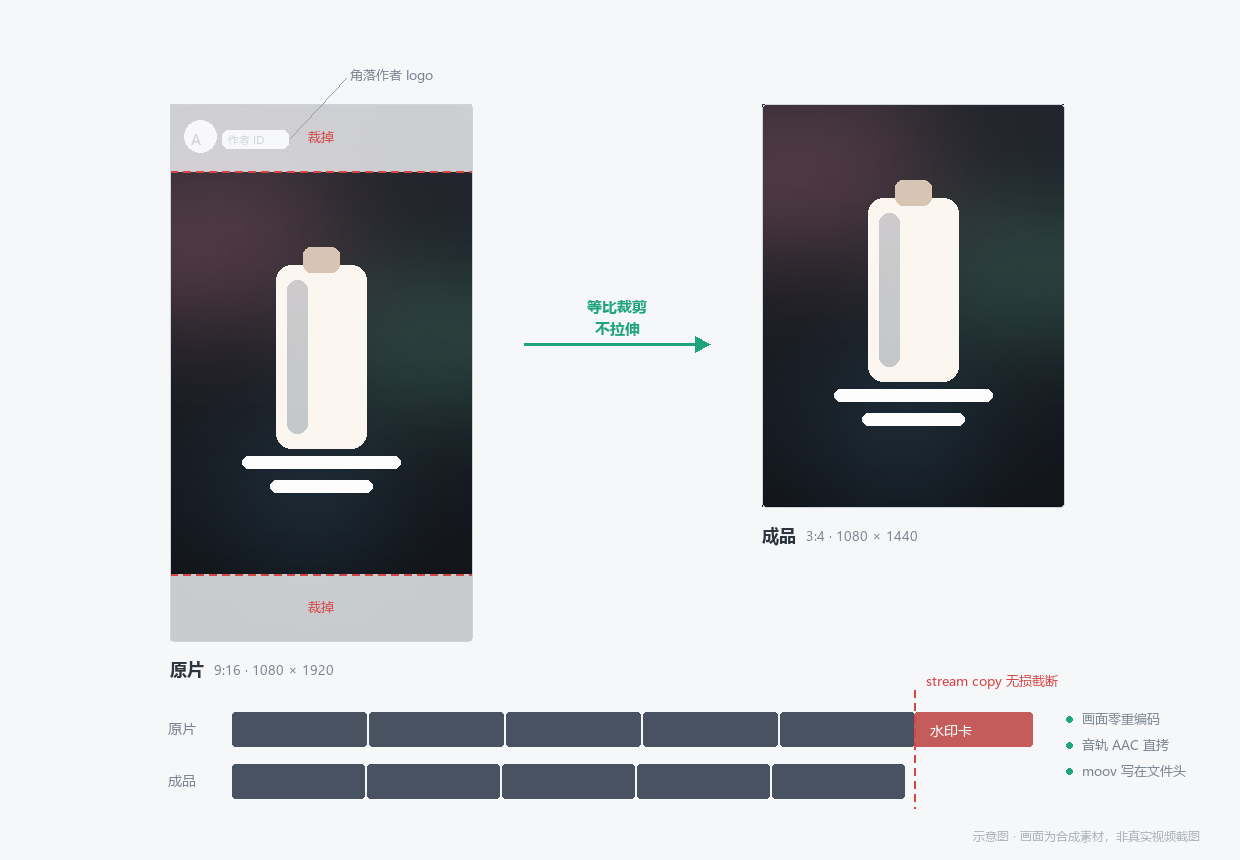
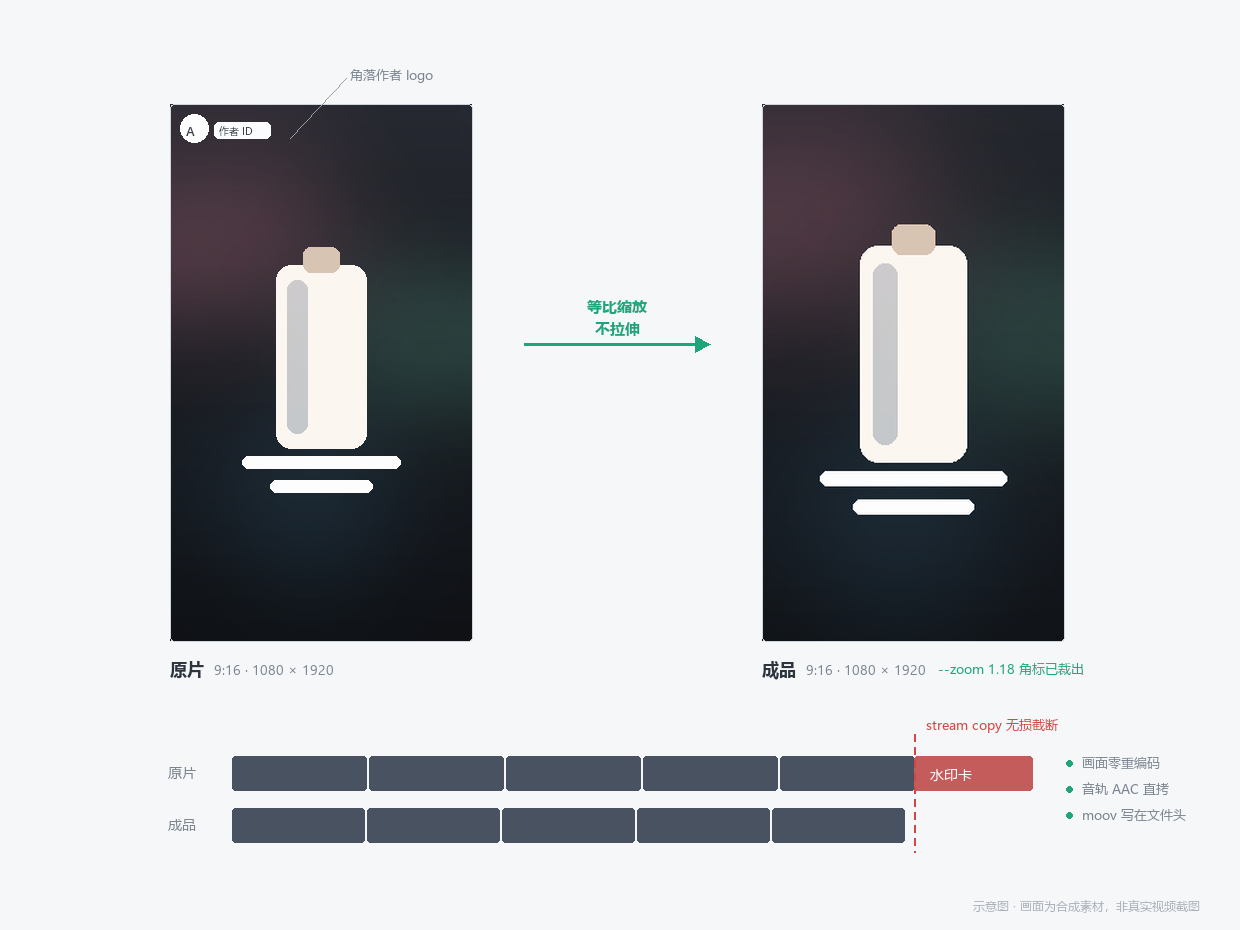
feat: 输出改为 9:16 (1080x1920)，新增 --zoom 裁角标
淘宝逛逛投稿规格是 9:16，原 3:4 输出需重跑。

- OUT_W/OUT_H 改为 1080x1920，滤镜按新尺寸生成
- 新增 --zoom（pipeline/process_video 均支持，默认 1.0）：先放大再居中裁回，
  用于把贴边作者角标挤出取景框；实测 1.12 可去掉贴边约 100px 的角标
- 输出文件名后缀 _3x4_ -> _9x16_
- 文档/示意图/troubleshooting 全部改为 9:16 口径
- version 1.1.0

diff --git a/scripts/process_video.py b/scripts/process_video.py
@@ -1,12 +1,12 @@
 #!/usr/bin/env python3
-"""Normalize a video to 3:4 (1080x1440) WITHOUT distortion (proportional scale),
+"""Normalize a video to 9:16 (1080x1920) WITHOUT distortion (proportional scale),
 keeping the original audio track by default. Output quality is preserved as
-closely as possible (low CRF + medium preset, original AAC audio copied).
+closely as possible (low CRF + preset, original AAC audio copied).
 
 Fit modes (--fit):
-  crop  (default) proportional scale to cover 1080x1440, center-crop the
-        overflow. Full-bleed 3:4, no distortion; edge content may be lost.
-  blur  proportional scale to fit inside 1080x1440, empty area filled
+  crop  (default) proportional scale to cover 1080x1920, center-crop the
+        overflow. Full-bleed 9:16, no distortion; edge content may be lost.
+  blur  proportional scale to fit inside 1080x1920, empty area filled
         with a blurred, zoomed copy of the video itself. No distortion, no crop.
   black proportional scale to fit, padded with black bars.
 
@@ -38,19 +38,33 @@ sys.path.insert(0, os.path.dirname(os.path.abspath(__file__)))
 import config as cfgmod  # noqa: E402
 STYLES = {"chill": "chill.mp3", "upbeat": "upbeat.mp3", "energetic": "energetic.mp3"}
 
-# Output canvas: 3:4 portrait. width:height = 3:4 -> 1080x1440.
-OUT_W, OUT_H = 1080, 1440
+# Output canvas: 9:16 portrait (Taobao Guangguang spec). 1080x1920.
+OUT_W, OUT_H = 1080, 1920
 # All modes keep the source aspect ratio (no stretching / distortion).
-FILTERS = {
-    "blur": (f"[0:v]scale={OUT_W}:{OUT_H}:force_original_aspect_ratio=increase,"
-             f"crop={OUT_W}:{OUT_H},boxblur=20:5[bg];"
-             f"[0:v]scale={OUT_W}:{OUT_H}:force_original_aspect_ratio=decrease[fg];"
-             f"[bg][fg]overlay=(W-w)/2:(H-h)/2,setsar=1[v]"),
-    "black": (f"[0:v]scale={OUT_W}:{OUT_H}:force_original_aspect_ratio=decrease,"
-              f"pad={OUT_W}:{OUT_H}:(ow-iw)/2:(oh-ih)/2:black,setsar=1[v]"),
-    "crop": (f"[0:v]scale={OUT_W}:{OUT_H}:force_original_aspect_ratio=increase,"
-             f"crop={OUT_W}:{OUT_H},setsar=1[v]"),
-}
+def build_filters(zoom=1.0):
+    """返回各 fit 模式的滤镜串。
+
+    zoom > 1.0：先按比例放大再居中裁回 1080x1920，等于从四周各裁掉
+    (1 - 1/zoom)/2 的画面，用来把贴在边缘的作者角标挤出取景框。
+    9:16 输出与多数源视频同比例，默认几乎不裁，所以角标需要靠 zoom 处理。
+    """
+    def even(v):
+        return max(2, int(round(v)) // 2 * 2)
+
+    zw, zh = even(OUT_W * zoom), even(OUT_H * zoom)
+    return {
+        "blur": (f"[0:v]scale={OUT_W}:{OUT_H}:force_original_aspect_ratio=increase,"
+                 f"crop={OUT_W}:{OUT_H},boxblur=20:5[bg];"
+                 f"[0:v]scale={OUT_W}:{OUT_H}:force_original_aspect_ratio=decrease[fg];"
+                 f"[bg][fg]overlay=(W-w)/2:(H-h)/2,setsar=1[v]"),
+        "black": (f"[0:v]scale={OUT_W}:{OUT_H}:force_original_aspect_ratio=decrease,"
+                  f"pad={OUT_W}:{OUT_H}:(ow-iw)/2:(oh-ih)/2:black,setsar=1[v]"),
+        "crop": (f"[0:v]scale={zw}:{zh}:force_original_aspect_ratio=increase,"
+                 f"crop={OUT_W}:{OUT_H},setsar=1[v]"),
+    }
+
+
+FILTERS = build_filters()
 
 
 def get_ffmpeg():
@@ -156,7 +170,7 @@ def ensure_writable(out_dir, io_mode="normal"):
 
 
 def process(input_path, fit="crop", replace_audio=False, style="chill", bgm=None,
-            out_dir=None, title=None, preset=None, io_mode=None):
+            out_dir=None, title=None, preset=None, io_mode=None, zoom=1.0):
     settings = cfgmod.load()
     out_dir = out_dir or settings["out_dir"]
     preset = preset or settings["preset"]
@@ -165,9 +179,10 @@ def process(input_path, fit="crop", replace_audio=False, style="chill", bgm=None
     ffmpeg = get_ffmpeg()
     base = sanitize(title or os.path.splitext(os.path.basename(input_path))[0])
     stamp = time.strftime("%Y%m%d_%H%M%S")
-    output = os.path.join(out_dir, f"{base}_3x4_{stamp}.mp4")
+    output = os.path.join(out_dir, f"{base}_9x16_{stamp}.mp4")
 
-    vfilter = FILTERS[fit]
+    zoom = 1.0 if fit != "crop" else max(1.0, float(zoom or 1.0))
+    vfilter = build_filters(zoom)[fit]
     cmd = [ffmpeg, "-y", "-v", "error", "-i", input_path]
     if replace_audio:
         bgm_path = bgm or os.path.join(BGM_DIR, STYLES[style])
@@ -218,7 +233,7 @@ def main():
     ap = argparse.ArgumentParser()
     ap.add_argument("input")
     ap.add_argument("--fit", choices=list(FILTERS), default="crop",
-                    help="how to adapt to 3:4 without distortion (default: crop to fill)")
+                    help="how to adapt to 9:16 without distortion (default: crop to fill)")
     ap.add_argument("--replace-audio", action="store_true",
                     help="opt-in: replace original audio with BGM")
     ap.add_argument("--style", choices=list(STYLES), default="chill")
@@ -228,10 +243,15 @@ def main():
     ap.add_argument("--preset", choices=list(cfgmod.PRESETS), default=None,
                     help="override the configured encoding preset for this run")
     ap.add_argument("--title", default=None)
+    ap.add_argument("--zoom", type=float, default=1.0,
+                    help="crop 模式下先放大再居中裁回 1080x1920；>1 可把画面"
+                         "边缘的作者角标挤出取景框（1.08 约裁掉四周 3.7pct），"
+                         "默认 1.0 不放大")
     args = ap.parse_args()
     try:
         print(json.dumps(process(args.input, args.fit, args.replace_audio, args.style,
-                                 args.bgm, args.out_dir, args.title, args.preset),
+                                 args.bgm, args.out_dir, args.title, args.preset,
+                                 zoom=args.zoom),
                          ensure_ascii=False))
     except Exception as e:
         print(json.dumps({"input": args.input, "error": str(e)[:500]}, ensure_ascii=False))

diff --git a/scripts/pipeline.py b/scripts/pipeline.py
@@ -1,5 +1,5 @@
 #!/usr/bin/env python3
-"""End-to-end pipeline: link(s) -> download -> 3:4 (proportional, no distortion)
+"""End-to-end pipeline: link(s) -> download -> 9:16 (proportional, no distortion)
 -> keep original audio -> configured output directory
 
 Single:   python pipeline.py "分享文本或链接" [--fit crop|blur|black]
@@ -48,7 +48,7 @@ def handle(url, workdir, args):
     rec["downloaded"] = dl["file"]
 
     # Step: cut the outro watermark card (platform/author card at the very end).
-    # Corner author logos are handled later by the 3:4 crop-to-fill in
+    # Corner author logos are handled later by the 9:16 crop-to-fill in
     # process_video.py, so only the trailing card is cut here.
     work = dl["file"]
     if not args.no_trim_outro:
@@ -79,6 +79,7 @@ def handle(url, workdir, args):
 
     proc = run("process_video.py", work,
                "--fit", args.fit,
+               "--zoom", str(args.zoom),
                *(["--replace-audio", "--style", args.style] if replace else []),
                "--out-dir", args.out_dir, "--title",
                os.path.splitext(os.path.basename(dl["file"]))[0])[0]
@@ -96,7 +97,10 @@ def main():
     ap.add_argument("links", nargs="*", help="share text / urls")
     ap.add_argument("--file", help="text file with one url per line (batch mode)")
     ap.add_argument("--fit", choices=["crop", "blur", "black"], default="crop",
-                    help="3:4 fit mode without distortion (default: crop to fill)")
+                    help="9:16 fit mode without distortion (default: crop to fill)")
+    ap.add_argument("--zoom", type=float, default=1.0,
+                    help="crop 模式下先放大再居中裁回 1080x1920；>1 可把画面边缘"
+                         "的作者角标挤出取景框（1.08 约裁掉四周 3.7pct），默认 1.0")
     ap.add_argument("--replace-music", action="store_true",
                     help="opt-in: detect noise and replace audio with BGM only if noisy")
     ap.add_argument("--force-music", action="store_true",

diff --git a/scripts/trim_outro.py b/scripts/trim_outro.py
@@ -10,7 +10,7 @@ the video just before that point with a stream copy (lossless, fast).
 Heuristic, not 100% accurate. Use `--fallback-sec` for a fixed cut when
 detection is unreliable, or `--no-trim` to only report what it would do.
 
-Corner author logos are NOT handled here: the 3:4 crop-to-fill step in
+Corner author logos are NOT handled here: the 9:16 crop-to-fill step in
 process_video.py already crops them out of frame, so no extra work is needed.
 
 Prints JSON: {"trimmed", "cut_at", "reason", "output"}

diff --git a/README.md b/README.md
@@ -3,11 +3,11 @@
 [![CI](https://github.com/yrongcheng851/video-auto-edit/actions/workflows/ci.yml/badge.svg)](https://github.com/yrongcheng851/video-auto-edit/actions/workflows/ci.yml)
 [![License: MIT](https://img.shields.io/badge/license-MIT-green.svg)](LICENSE)
 
-把小红书 / 抖音的竖版视频批量整理成统一的 **3:4 (1080×1440)** 成品：自动去掉片尾的平台水印卡、等比裁剪不变形、保留原声、moov 写在文件头可直接上传。
+把小红书 / 抖音的竖版视频批量整理成统一的 **9:16 (1080×1920)** 成品：自动去掉片尾的平台水印卡、等比裁剪不变形、保留原声、moov 写在文件头可直接上传。
 
 不是在线服务，就是几个 Python 脚本。没有账号、没有云端上传，视频只在你本机流转。
 
-![左：原片 9:16，角落有作者 logo、末尾带平台水印卡；右：成品 3:4，logo 被裁出画面，片尾卡被截断](assets/demo-crop-trim.png)
+![左：原片 9:16，角落有作者 logo、末尾带平台水印卡；右：成品 9:16 1080×1920，片尾卡已无损截断，加 --zoom 后贴边角标被裁出取景框](assets/demo-crop-trim.png)
 
 <sub>画面为合成示意图，不是任何真实视频的截图。</sub>
 
@@ -15,7 +15,7 @@
 
 - **批量下载**：粘贴分享文本或一堆短链，自动挑出链接逐个处理。
 - **去片尾卡**：扫末段画面，找「突变 + 之后静止」的平台卡片，stream copy 无损截断。极短的黑底署名卡也能识别。
-- **转 3:4**：等比放大后居中裁剪填满，不变形。角落的作者 logo 顺带裁出画面外。
+- **转 9:16**：等比缩放填满 1080×1920，不变形。绝大多数源视频本来就是 9:16，这一步几乎不损失画面；想连角落的作者角标一起去掉，加 `--zoom 1.12`（放大后居中裁，四周各裁 5.4%）。
 - **保原声**：音频是 AAC 就零重编码直接 copy。想换 BGM 是显式开关，默认不动。
 - **保画质**：CRF 18（长片自动降到 CRF 20 换取成功率），`+faststart`。
 
@@ -138,10 +138,10 @@ python scripts/pipeline.py --file links.txt
 scripts/
   setup.py           首次配置向导 + 环境自检
   config.py          配置加载（三个脚本共享）
-  pipeline.py        一键流水线：下载 → 去片尾 → 转 3:4 → 落盘
+  pipeline.py        一键流水线：下载 → 去片尾 → 转 9:16 → 落盘
   download_video.py  小红书 / 抖音下载
   trim_outro.py      片尾水印卡检测与无损截断
-  process_video.py   3:4 比例转换 + 编码
+  process_video.py   9:16 比例转换 + 编码
   detect_noise.py    杂音检测（仅换 BGM 时用）
   make_bgm.py        重新生成内置 BGM
 assets/              内置 BGM 三首（程序化合成）与示意图

diff --git a/CHANGELOG.md b/CHANGELOG.md
@@ -2,6 +2,16 @@
 
 版本号遵循语义化版本：主版本改动参数或配置格式，次版本加功能，修订号只修 bug。
 
+## v1.1.0 — 输出改为 9:16 (1080×1920)，新增 --zoom
+
+**行为变更**：成品分辨率从 1080×1440（3:4）改为 **1080×1920（9:16）**，对齐淘宝逛逛的投稿规格。已有配置（输出目录、cookies、编码预设）不受影响，无需重跑 `setup.py`。
+
+- 输出画布改为 1080×1920，滤镜全部按新尺寸生成，仍为等比缩放、绝不拉伸。
+- **副作用（重要）**：小红书/抖音源视频多数本身就是 9:16，输出与源同比例，`crop` 模式几乎不再裁剪，因此**画面角落的作者角标不会像以前那样被顺带裁掉**。
+- 新增 `--zoom`（`pipeline.py` 与 `process_video.py` 均支持，默认 1.0）：先放大再居中裁回 1080×1920，用于把贴边角标挤出取景框。1.12 约裁掉四周 5.4%（横向约 48px、纵向约 103px），1.18 约纵向 153px。实测 1.12 可去掉贴边约 100px 的角标。
+- 输出文件名后缀由 `_3x4_` 改为 `_9x16_`，避免和旧成品混淆。
+- 文档、示意图、troubleshooting 全部改为 9:16 口径。示意图改用「同比例输出 + zoom 去角标」的叙事，不再画上下裁剪。
+
 ## v1.0.2 — 文案口径改为淘宝逛逛场景
 
 只改 SKILL.md 的展示文案与触发词，功能代码一行未动。

diff --git a/references/troubleshooting.md b/references/troubleshooting.md
@@ -53,10 +53,10 @@ cookies 过期了会重新撞登录墙，重新导一份覆盖原文件即可。
 
 ## 画面比例问题
 
-- 输出画布固定为 3:4（1080×1440）。
+- 输出画布固定为 9:16（1080×1920）。
 - 默认 `--fit crop`：等比放大后居中裁剪填满全屏。横屏素材会裁掉左右两侧。
 - 觉得裁剪丢了内容 → 换 `--fit blur`（模糊背景填充，完整保留画面）或 `--fit black`（黑边）。
-- **不要**改成直接 `scale=1080:1440` 的硬拉伸，画面会严重变形。
+- **不要**改成直接 `scale=1080:1920` 的硬拉伸，画面会严重变形。
 
 ## 输出目录写不进去
 
